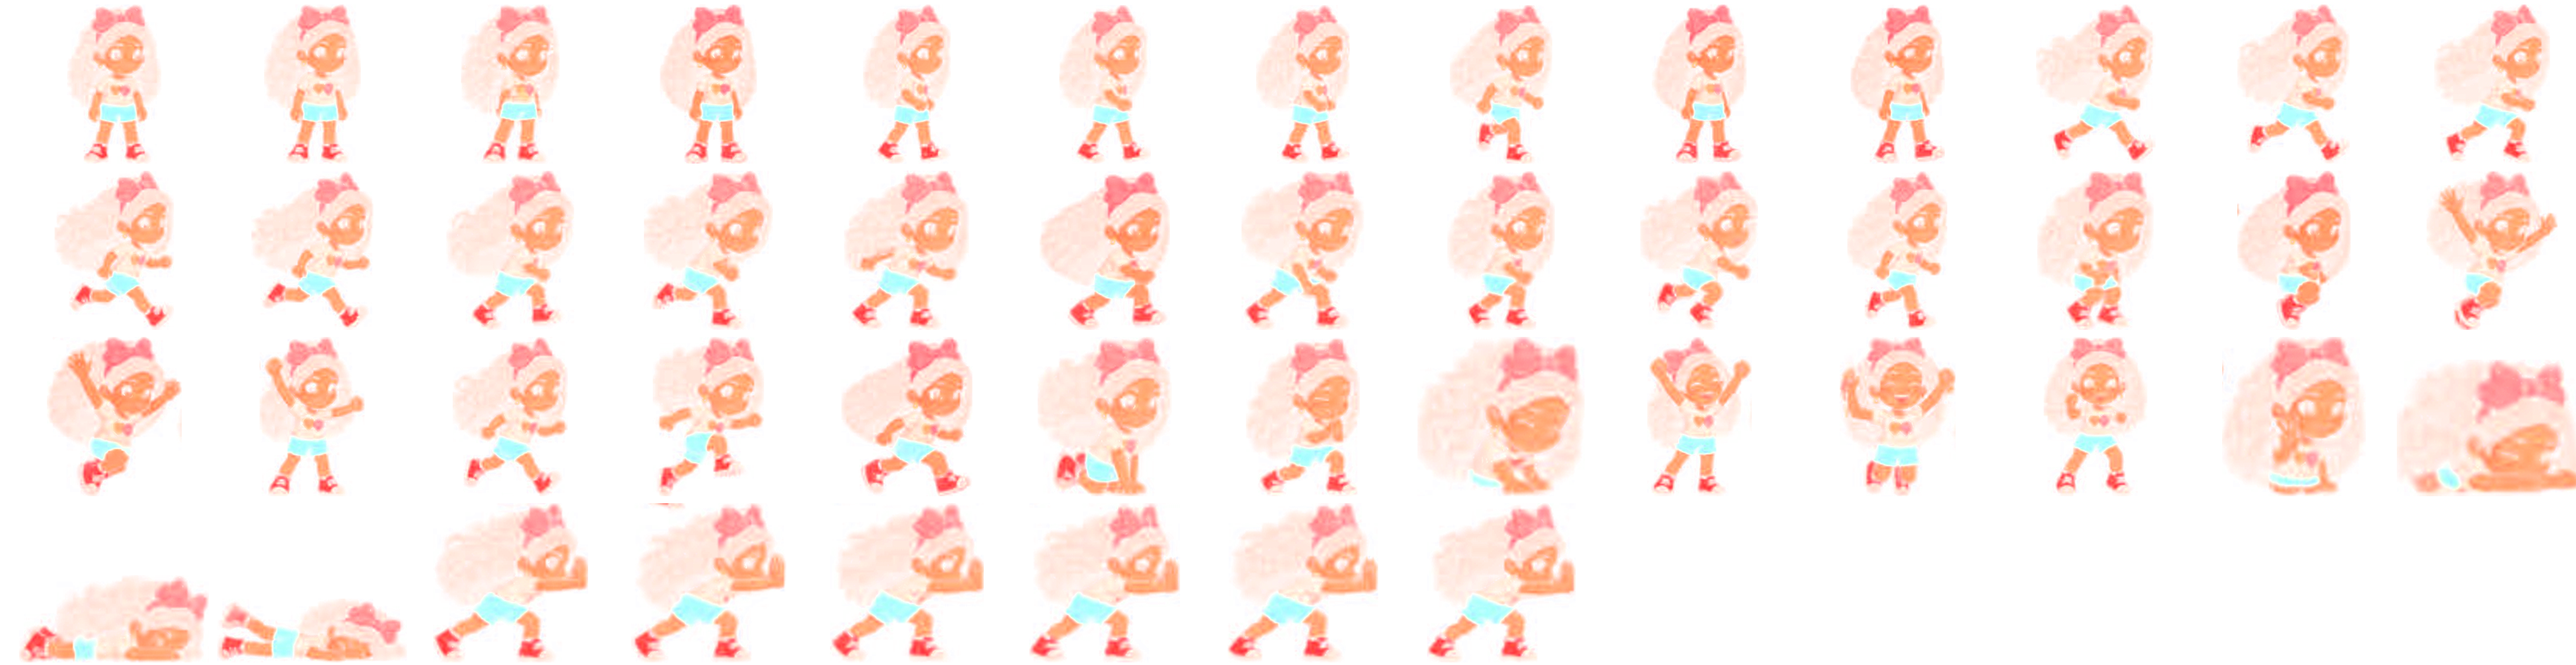
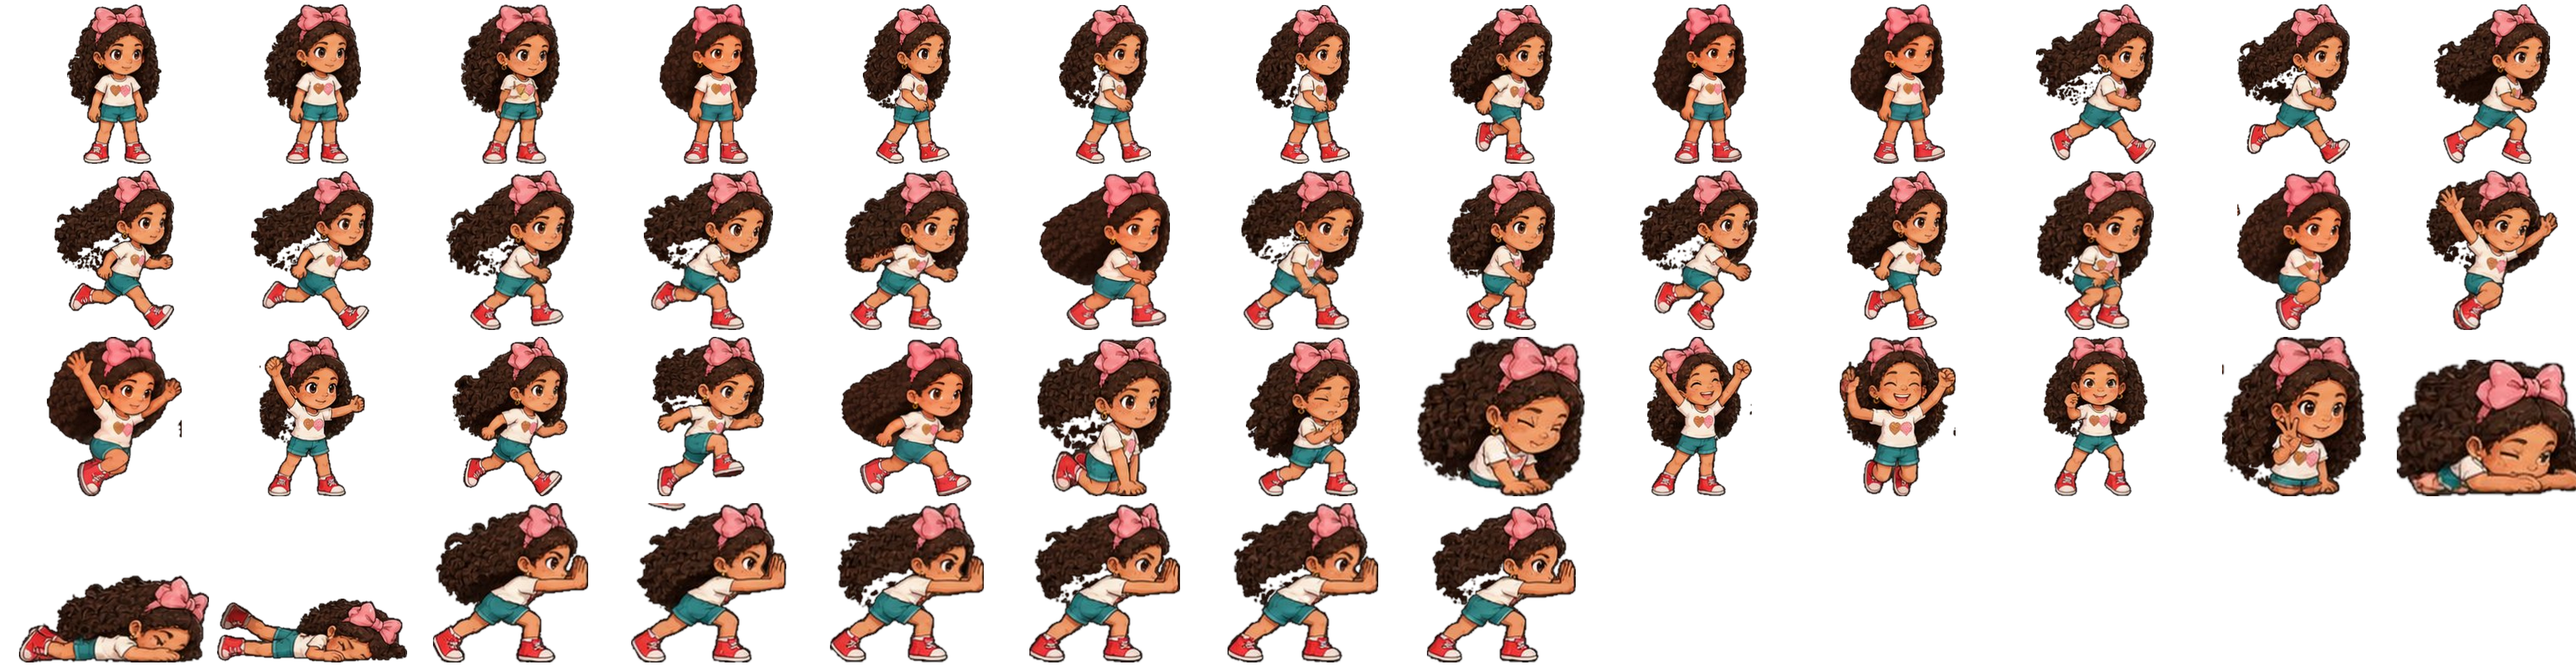
Fix faded reskin: contour-keyed opaque sheet v2; master sprite prompts for ChatGPT

Changed region(s): [[0.0, 0.0, 1.0, 1.0]]

diff --git a/MASTER_PROMPT_SPRITES.md b/MASTER_PROMPT_SPRITES.md
@@ -1,0 +1,180 @@
+# MASTER PROMPT — TODOS LOS SPRITES (para pegar en ChatGPT)
+## Angely's World · Diseños nuevos · Un prompt por hoja, listo para copiar
+
+---
+
+# REGLAS QUE APLICAN A TODOS LOS PROMPTS
+- Adjunta SIEMPRE las hojas de identidad aprobadas y las fotos reales.
+- Fondo **NEGRO PURO** sólido (el pipeline lo recorta por contorno).
+- Retícula **UNIFORME**: celdas iguales, poses centradas en su celda, una
+  pose por celda, en orden de izquierda a derecha y de arriba a abajo.
+- El personaje mira a la **DERECHA** (excepto hojas "back" = de espaldas).
+- **Sin texto**, sin números, sin marcas. Ningún frame cortado.
+- La MISMA cara, pelo y ropa en todos los frames. Si uno sale distinto,
+  se rehace ese frame.
+
+# DISEÑO ANGELY (nuevo — en todos sus prompts)
+Niña LATINA ~7 años, piel morena clara, **pelo marrón oscuro RIZO con
+volumen hasta la cintura, LAZO ROSA GRANDE arriba**, pecas en la nariz,
+aretes dorados, **camisa crema con dos corazones (marrón y rosa)**, shorts
+teal, tenis rojos. Estilo: el de su hoja de identidad aprobada.
+
+# DISEÑO ANGELO (nuevo — en todos sus prompts)
+Hombre LATINO joven, piel morena clara, **pelo negro buzz con fade y línea
+marcada**, cejas fuertes, **AFEITADO COMPLETO**, arete pequeño, **cadena
+con medallón**, **tatuaje de LABIOS ROJOS en el cuello**, **hoodie azul
+royal con cuello sherpa crema**, pantalón charcoal, tenis grises.
+
+---
+
+# PROMPT 1 — angely_sword (espada) · retícula 10 columnas x 3 filas
+Create a sprite sheet of Angely (design above, use the attached identity
+sheet) holding a shining silver sword, on a pure black background, in a
+uniform grid of 10 columns x 3 rows, one pose per cell, in this exact
+order (21 poses, rest of the cells empty):
+Frames 1-4 IDLE: standing still holding the sword down, subtle breathing.
+Frames 5-9 SLASH: a sword slash combo — raise, swing right, follow
+through, recover.
+Frames 10-13 JUMP ATTACK: slashing while airborne, body rising then
+falling.
+Frames 14-16 PICKUP: bending down and picking up the sword proudly.
+Frames 17-18 HURT: flinching back, eyes closed, sword lowered.
+Frames 19-21 DEFEAT: falling to her knees, then lying down defeated,
+sword beside her.
+She faces RIGHT in every action pose. Same face, curly hair, pink bow,
+hearts shirt in every frame. No text.
+
+# PROMPT 2 — angely_bow (arco) · retícula 5 columnas x 1 fila
+Create a sprite sheet of Angely (design above) with a wooden bow and
+arrow, pure black background, uniform grid of 5 columns x 1 row, one pose
+per cell, a single SHOOTING sequence facing RIGHT:
+Frame 1: raising the bow. Frame 2: drawing the string back, aiming.
+Frame 3: full draw, steady aim. Frame 4: releasing the arrow. Frame 5:
+follow-through, bow lowered slightly, watching the shot. Same character
+in every frame. No text.
+
+# PROMPT 3 — angely_hammer (martillo) · retícula 5 x 1
+Create a sprite sheet of Angely (design above) holding a big toy-like
+war hammer, pure black background, uniform grid of 5 columns x 1 row, a
+single SMASH sequence facing RIGHT:
+Frame 1: gripping the hammer low. Frame 2: lifting it up with effort.
+Frame 3: hammer high overhead, body arched back. Frame 4: the SMASH down
+in front of her, body bent forward. Frame 5: recovering, hammer resting
+on the ground, proud smile. No text.
+
+# PROMPT 4 — angely_boomerang · retícula 5 x 1
+Create a sprite sheet of Angely (design above) holding a colorful
+boomerang, pure black background, uniform grid of 5 columns x 1 row, a
+single THROW sequence facing RIGHT:
+Frame 1: holding the boomerang back, aiming. Frame 2: wind-up, body
+twisted. Frame 3: the throw, arm extended forward. Frame 4: watching it
+fly, hand shielding her eyes. Frame 5: catching it as it returns, happy.
+No text.
+
+# PROMPT 5 — angely_wand (varita) · retícula 5 x 1
+Create a sprite sheet of Angely (design above) holding a star-tipped
+magic wand, pure black background, uniform grid of 5 columns x 1 row, a
+single CAST sequence facing RIGHT:
+Frame 1: wand down, concentrating. Frame 2: raising the wand, sparkles
+starting. Frame 3: wand high, swirling magic around the star tip.
+Frame 4: casting forward, a burst of stars from the wand. Frame 5:
+lowering the wand, satisfied smile, sparkles fading. No text.
+
+# PROMPT 6 — angely_ray (pistola de rayos) · retícula 6 x 1
+Create a sprite sheet of Angely (design above) holding a colorful retro
+ray gun, pure black background, uniform grid of 6 columns x 1 row, a
+single SHOOTING sequence facing RIGHT:
+Frame 1: gun down at her side. Frame 2: raising it with both hands.
+Frame 3: aiming straight ahead, determined. Frame 4: FIRING — a bright
+energy beam/muzzle flash from the barrel, slight recoil. Frame 5: still
+aiming, smoke curl from the barrel. Frame 6: lowering it, proud smile.
+No text.
+
+# PROMPT 7 — angely_swim (nadar) · retícula 20 x 1 (fila larga)
+Create a sprite sheet of Angely (design above, wearing a teal swimsuit,
+her curly hair and pink bow stay) SWIMMING horizontally facing RIGHT,
+pure black background, uniform grid of 20 columns x 1 row:
+Frames 1-8 SWIM: a freestyle swimming cycle, body horizontal, arms
+alternating, legs kicking.
+Frames 9-14 FLOAT: floating on her back, relaxed, then rolling upright
+treading water.
+Frames 15-18 UP: swimming upward toward the surface.
+Frames 19-20 HURT: flinching underwater, eyes closed.
+No text. Her body stays horizontal in the swim and float frames.
+
+# PROMPT 8 — angelo (hoja principal) · retícula 12 x 4
+Create a sprite sheet of Angelo (design above — the father, use the
+attached identity sheet) on a pure black background, uniform grid of
+12 columns x 4 rows, one pose per cell, in this exact order (44 poses):
+Frames 1-4 IDLE: standing calm, subtle breathing.
+Frames 5-12 RUN: a strong running cycle facing RIGHT.
+Frames 13-16 TALK: talking poses, hand gestures, mouth moving.
+Frames 17-20 WAVE: waving goodbye with one hand, warm smile.
+Frames 21-22 ARMS: opening both arms wide, welcoming.
+Frames 23-24 WELCOME: arms open, bowing his head slightly, kind.
+Frame 25 STANCE: fighting stance, fists up, determined.
+Frame 26 CROUCH: crouching down, ready to leap.
+Frame 27 LEAP: leaping into the air.
+Frames 28-29 KICK: a flying kick mid-air.
+Frame 30 DROP: falling back down.
+Frames 31-33 PUNCH: a punch combo — jab, cross, hook.
+Frames 34-35 UPPERCUT: a rising uppercut, body lifting off the ground.
+Frame 36 LAND: landing in a crouch, dust-off pose.
+Frames 37-44 WALK: a calm walking cycle facing RIGHT.
+Same face (clean-shaven), fade, blue sherpa hoodie, medallion and the
+red-lips neck tattoo visible in close poses, in every frame. No text.
+
+# PROMPT 9 — angelo_hug (abrazo) · retícula 7 x 1
+Create a sprite sheet with BOTH characters (designs above) on a pure
+black background, uniform grid of 7 columns x 1 row, side view:
+Frame 1 OPEN: Angelo kneeling with arms open; Angely standing before
+him.
+Frame 2 KNEEL: Angelo fully knelt, Angely stepping in.
+Frames 3-6 HUG: the hug — they embrace, her arms around his neck, his
+arms around her, gentle squeeze progression, eyes closed, happy.
+Frame 7 PAT: Angelo patting her back softly, both smiling.
+Hearts may float subtly. No text.
+
+# PROMPT 10 — angelo_finale · retícula 8 x 4 (32 poses)
+Angelo (design above), pure black background, 8 columns x 4 rows:
+Frames 1-4 IDLE · 5-12 WALK (calm, facing RIGHT) · 13-16 TALK (gentle,
+emotional) · 17-20 KNEEL (kneeling down slowly, opening his arms) ·
+21-24 REACH (reaching one hand out toward his daughter) · 25-28 SMILE
+(a warm proud smile sequence) · 29-32 WAVE (waving goodbye, bittersweet).
+No text.
+
+# PROMPT 11 — angely_finale · retícula 8 x 4 (32 poses)
+Angely (design above), pure black background, 8 columns x 4 rows:
+Frames 1-4 IDLE · 5-12 WALK (facing RIGHT) · 13-16 TALK (happy,
+expressive) · 17-24 RUN (running joyfully toward her dad) · 25-28 REACH
+(reaching both arms out for a hug) · 29-32 HAPPY (jumping with joy, arms
+up, laughing). No text.
+
+# PROMPT 12 — angelo_finale_back + angely_finale_back · 8 x 1 cada una
+Two separate sheets, same prompt for each character (designs above):
+the character seen FROM BEHIND walking away facing away from camera,
+pure black background, uniform grid of 8 columns x 1 row, an 8-frame
+walking cycle from behind. Angelo: blue hoodie from behind. Angely:
+curly hair and pink bow from behind, hearts shirt. No text.
+
+# PROMPT 13 — final_pair (la pareja) · 3 hojas de 8 x 1
+BOTH characters together, side view, pure black background:
+(a) final_pair_reunion: Frames 1-4 APPROACH — Angelo and Angely walking
+toward each other; Frames 5-7 HUG — embracing; Frame 8 PAT — he pats
+her back.
+(b) final_pair_side: 8 frames of father and daughter walking side by
+side holding hands, facing RIGHT.
+(c) final_pair_back: 8 frames of both walking away FROM BEHIND,
+holding hands.
+No text.
+
+---
+
+# ORDEN Y ENTREGA
+1. Primero `angely_sword` y `angelo` — se aprueban antes de seguir.
+2. Después bow/hammer/boomerang/wand/ray, swim, hug, finales.
+3. Cada hoja: PNG fondo negro puro, la retícula exacta indicada.
+4. Muse recorta por contorno, verifica frame por frame y reconstruye
+   en la retícula del juego (como se hizo con `angely`).
+5. Bosses y enemigos: NO cambian de diseño — sus fichas completas
+   están en SPRITE_REDESIGN_PACK.md.
